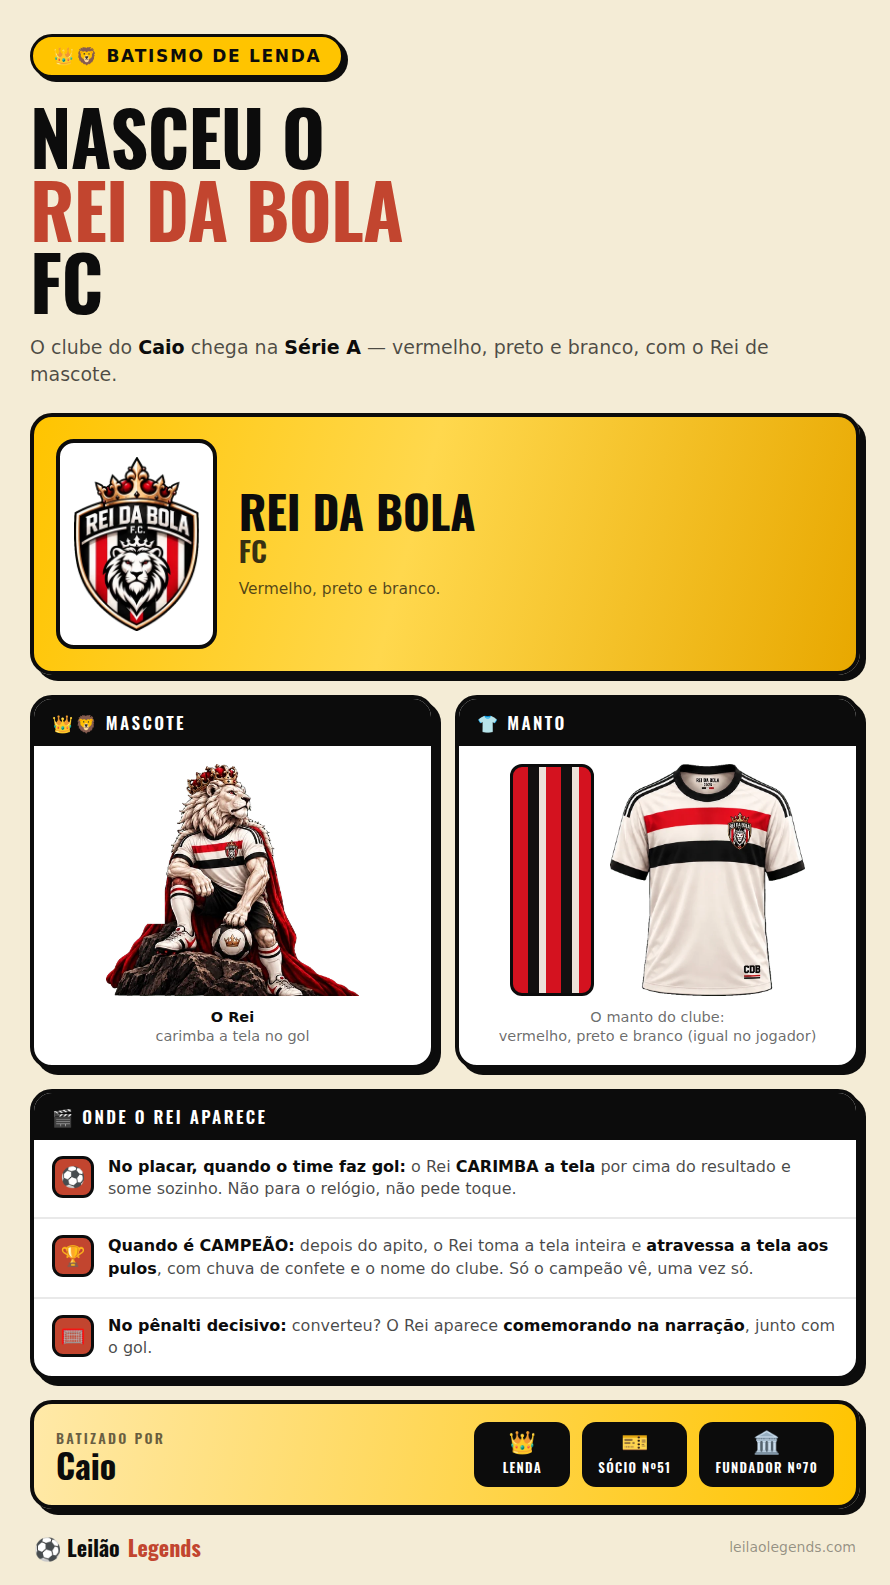
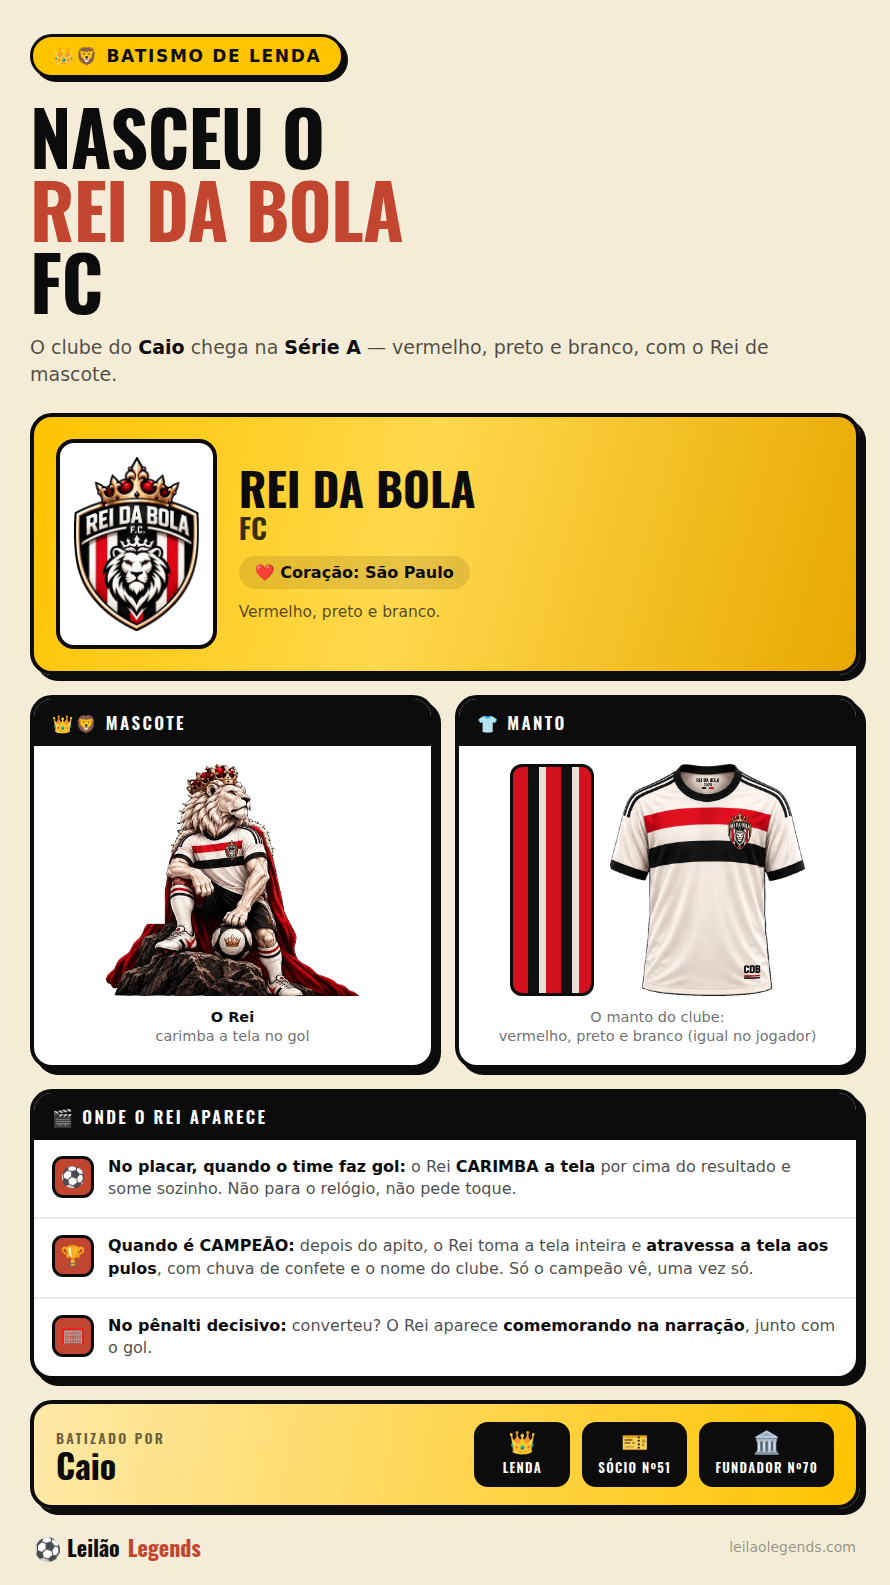
Rei da Bola: o time de coracao do dono e o Sao Paulo -- banco + post
Diego: "time de coracao dele e Sao Paulo FC". Gravado em esc_socios.time_coracao
('Sao Paulo', a mesma grafia que os outros 3 socios sao-paulinos ja usam — a
coluna e busca exata, entao grafia diferente nao casa) e anotado no apoio.tsx.

Explica a arte: o manto BRANCO com faixa VERMELHA e PRETA e o tricolor dele.
Post regerado com --coracao, que era a unica coisa que faltava pra fechar o
roteiro de batismo.

Claude-Session: https://claude.ai/code/session_018Ap1zPCMVL9XeZJN3u93ZA

Changed region(s): [[0.2427, 0.2782, 0.5461, 0.4019]]

diff --git a/src/escalacao/apoio.tsx b/src/escalacao/apoio.tsx
@@ -139,7 +139,7 @@ const FOUNDERS: Record<string, ApoioTier> = {
   'lluchmarcel81@gmail.com': 'ouro', // 👑 Lenda — batismo (Esqueceram do Lluch FC, ex-Litoral United, Série B) + FUNDADOR nº50 (28/08)
   'agrostinho88@gmail.com': 'ouro', // 👑 Lenda (pago) — tudo do ouro + FUNDADOR nº39 + sócio nº29 + batismo (Papão United Madrid, ex-Santos Dumont, Série D; Leandro/Obina) (nome reservado 11/08, clube entregue 23/08)
   'erosreis@outlook.com.br': 'ouro', // 👑 Lenda (pago) — tudo do ouro + FUNDADOR + batismo (Eros FC — influencer @erosreis; nomes: Eros Reis FC / Eros Reis / Eros; mascote Nina 🐶) (12/08)
-  'caiobegnamii@gmail.com': 'ouro', // 👑 Lenda — tudo do ouro + FUNDADOR nº70 + batismo (Rei da Bola FC, Série A; leão branco coroado 👑🦁; manto branco com faixa vermelha e preta) (16/09)
+  'caiobegnamii@gmail.com': 'ouro', // 👑 Lenda — tudo do ouro + FUNDADOR nº70 + batismo (Rei da Bola FC, Série A; leão branco coroado 👑🦁; manto branco com faixa vermelha e preta; coração São Paulo — daí o tricolor) (16/09)
   'tiosapeka@gmail.com': 'ouro', // 👑 Lenda (pago) — tudo do ouro + FUNDADOR + batismo (Sapekeiros FC — influencer @tiosapekagg; mascote abelha coroada 🐝; coração Santos) (12/08)
   'chiarentin.dyno127@gmail.com': 'ouro', // 👑 Lenda (pago) — tudo do ouro, SEM fundador (não entra no FUNDADOR_N) (12/08)
   'glaucomiranda@outlook.com': 'ouro', // 👑 Lenda (pago) — tudo do ouro + FUNDADOR + sócio nº22 (Glauco; batismo Série A a definir) (15/08)
